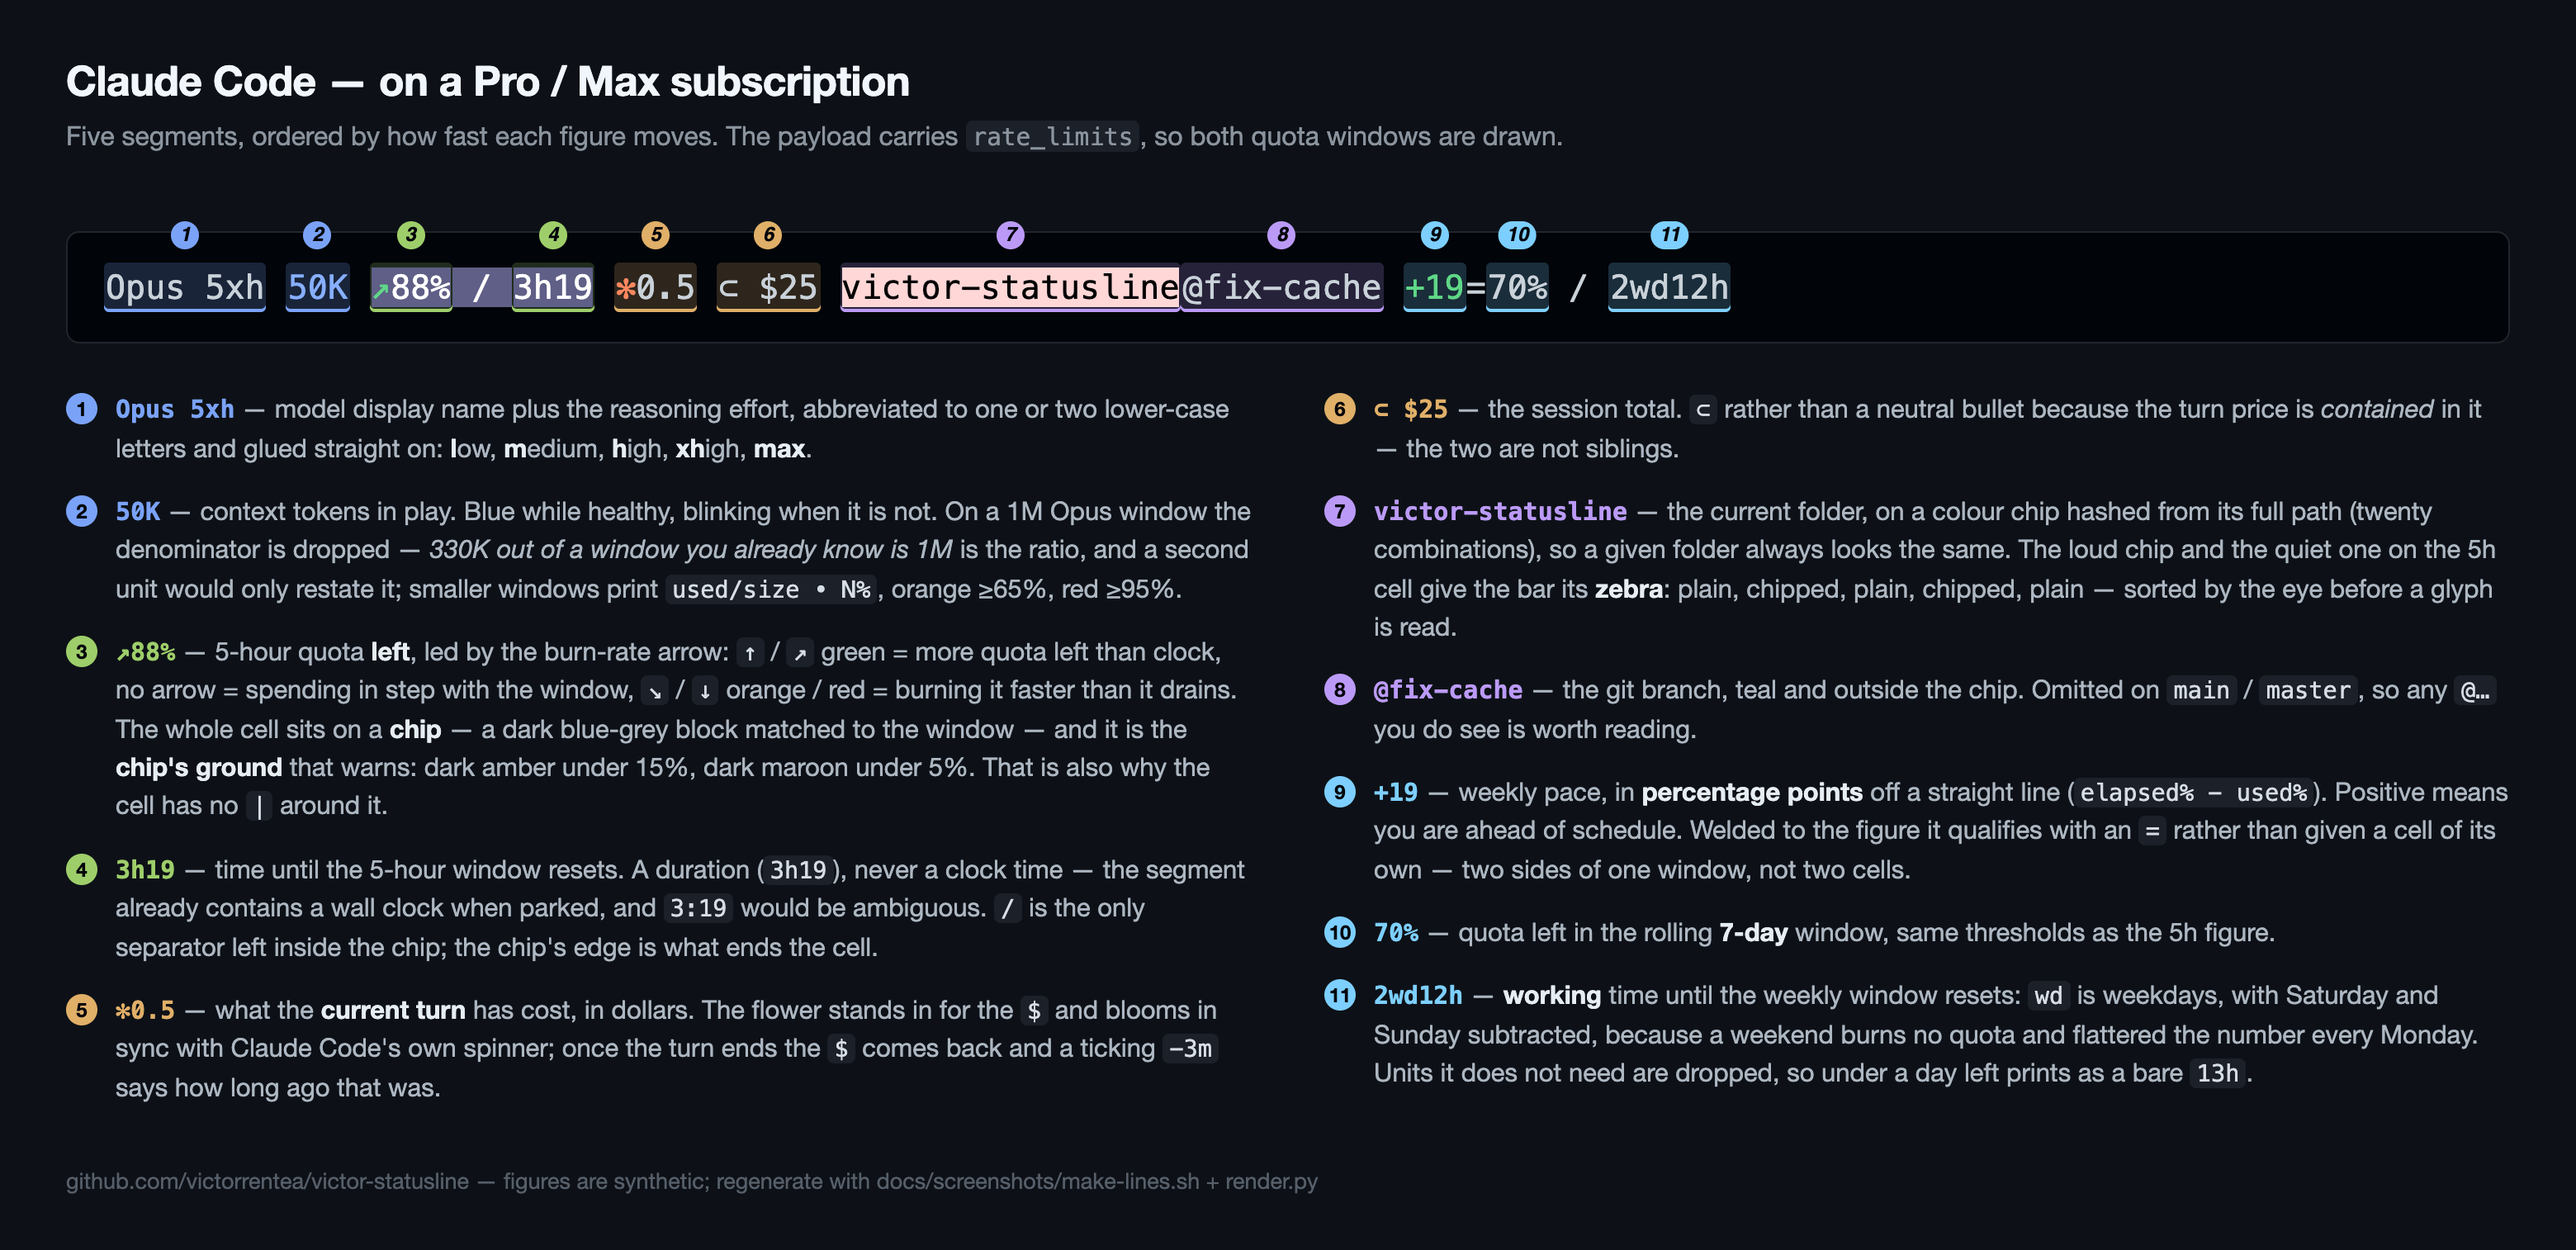
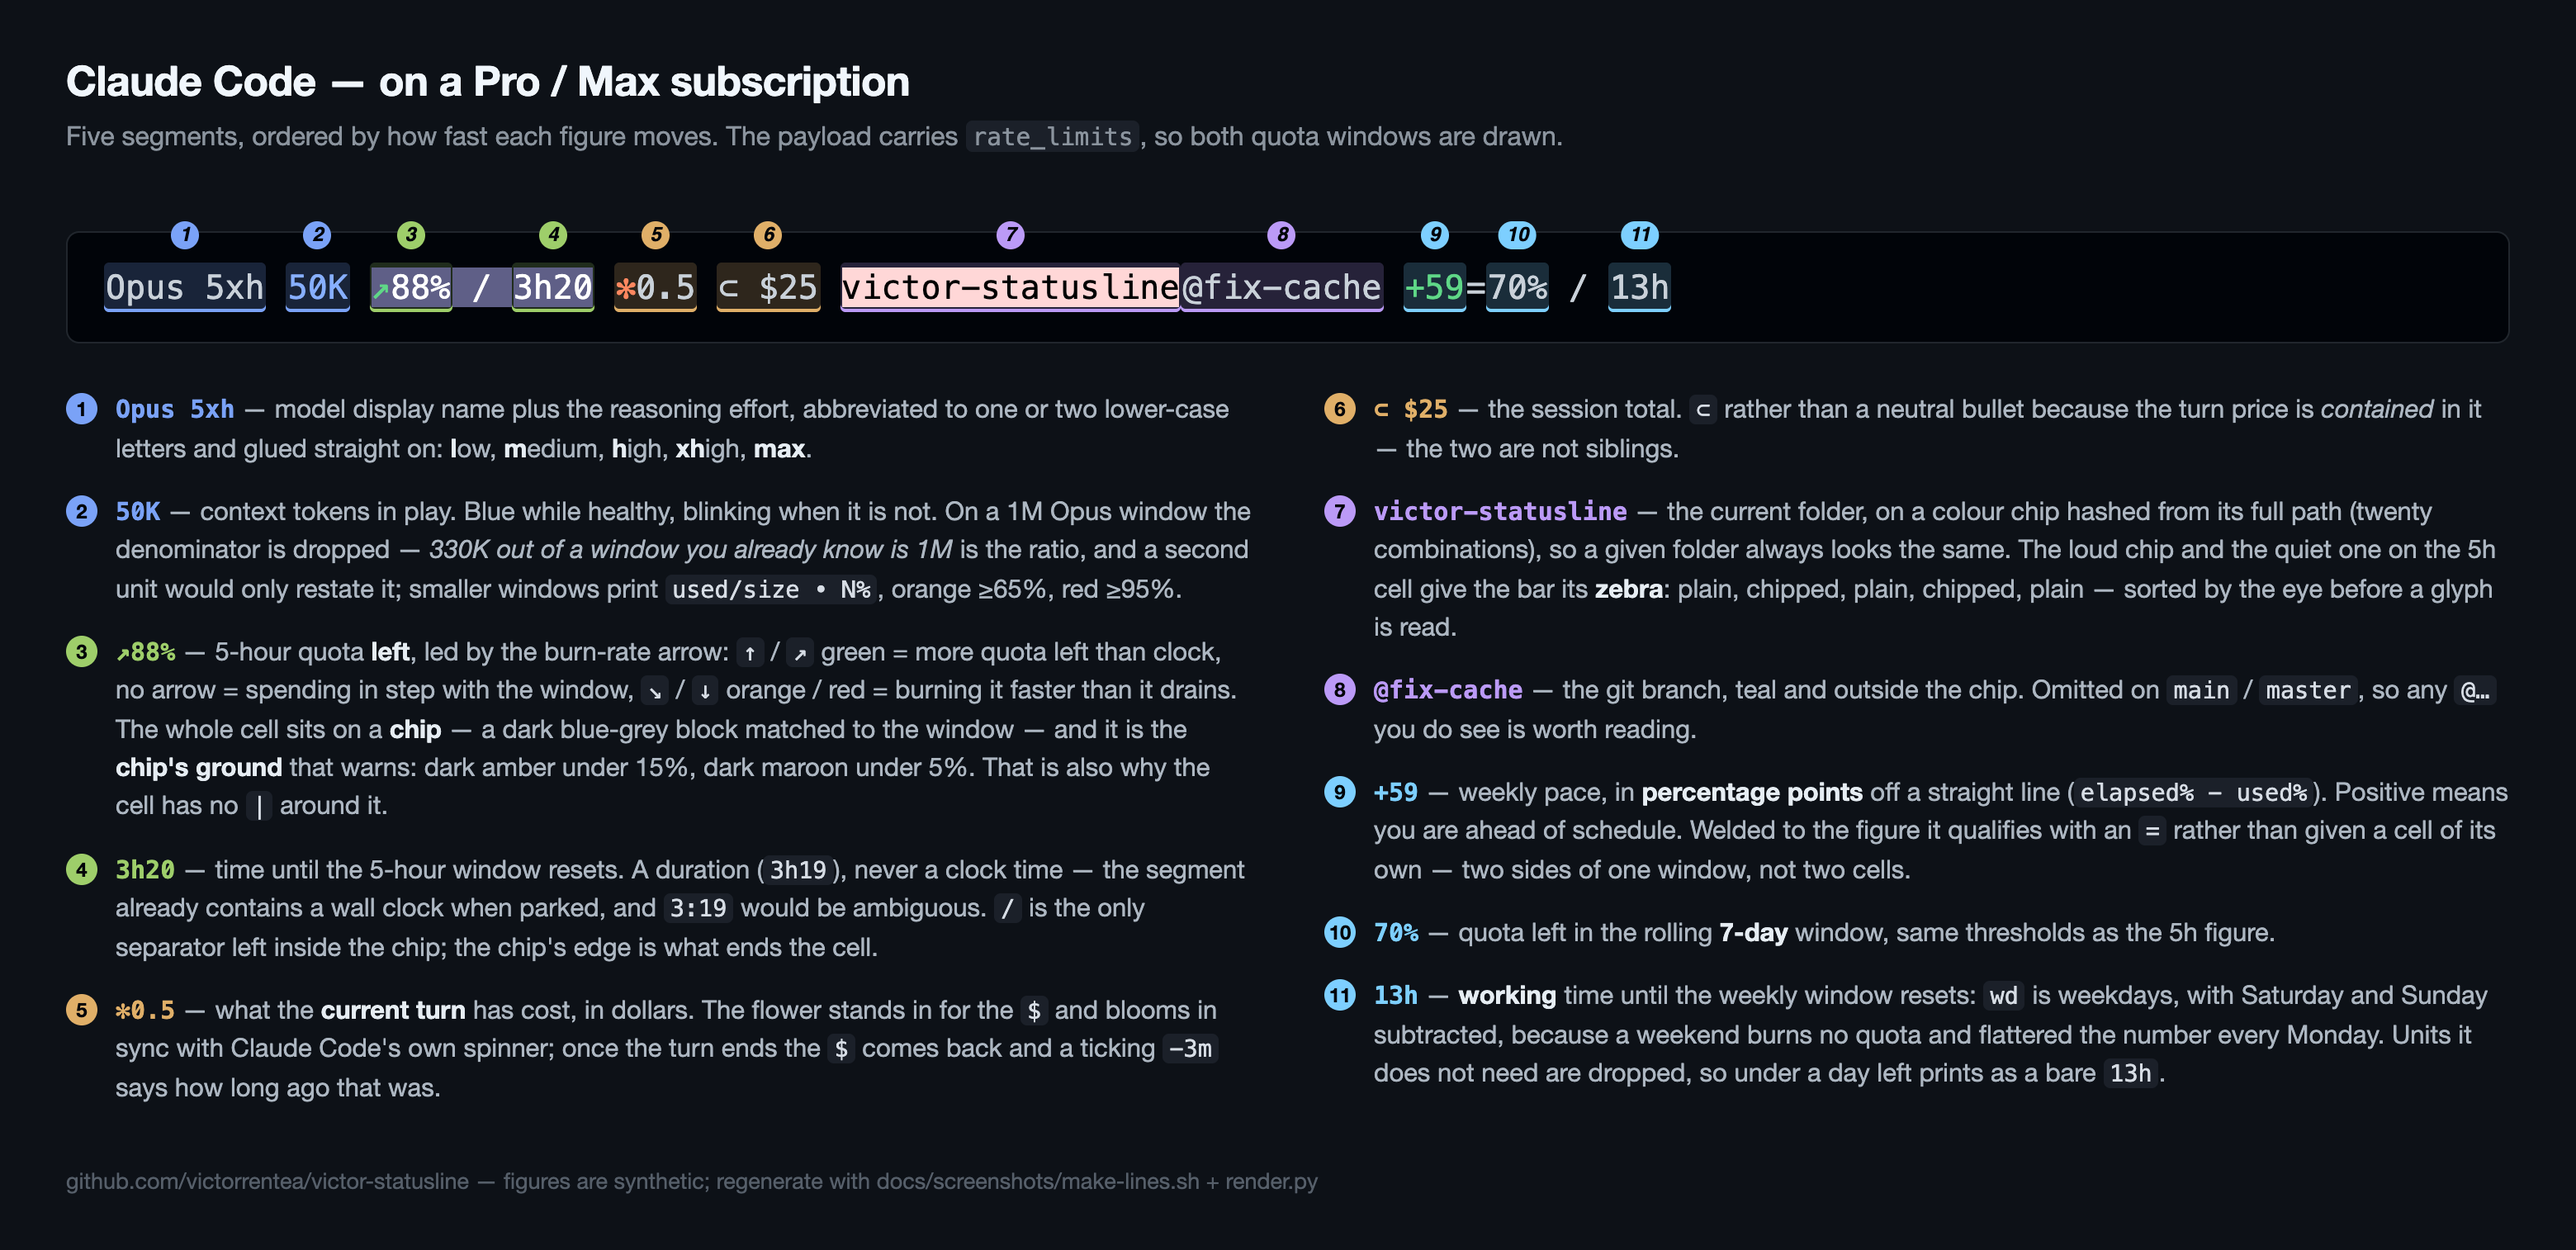
statusline: print the subagent chip's group count with × instead of *
+{O5h*2} read like a shell glob; × is what a multiplier looks like.
Script, embedded copy, tests, docs and screenshots move together.

Changed region(s): [[0.5285, 0.7761, 0.9638, 0.8692], [0.6218, 0.1552, 0.684, 0.2483]]

diff --git a/docs/screenshots/render.py b/docs/screenshots/render.py
@@ -201,13 +201,13 @@ SPECS = [
              "between a spawn and that agent's first completed response."),
             (r"\+\{[^}]*\}", "spend",
              "the fan-out, <b>grouped rather than listed</b>: each entry is "
-             "<code>&lt;model&gt;&lt;effort&gt;</code> with <code>*N</code> when a group "
+             "<code>&lt;model&gt;&lt;effort&gt;</code> with <code>×N</code> when a group "
              "has more than one, biggest group first. Here: two Opus 5 at high effort "
              "and one Sonnet 5 at medium. Haiku, which has no reasoning-effort setting "
              "at all, renders bare (<code>H4.5</code>) rather than inventing a letter. "
              "One line per agent would be a roster; the bar has room for the "
              "<i>shape</i> of the fan-out, which is the part you act on — "
-             "<code>+{F5.1h*21,O5h*3}</code> says “mostly Fable, three Opus stragglers” "
+             "<code>+{F5.1h×21,O5h×3}</code> says “mostly Fable, three Opus stragglers” "
              "in twelve columns. The chip disappears the moment the last agent is "
              "collected."),
         ],

diff --git a/claude/victor-claude-statusline.md b/claude/victor-claude-statusline.md
@@ -293,16 +293,16 @@ parameter expansion, not `sed`: `$ctx_render` is full of ESC and `&` bytes that
 
 ---
 
-## 1.2 Subagents in flight — `+{O5h*2,S5m}`
+## 1.2 Subagents in flight — `+{O5h×2,S5m}`
 
 Glued onto the model segment while subagents are running, and absent otherwise:
 
 ```
-Opus 5h 60K +{O5h*2,S5m} | ↓48% / 4h44 | $0.3 -2m ⊂ $1.1 | victor-statusline | -1=-1% / 0m
+Opus 5h 60K +{O5h×2,S5m} | ↓48% / 4h44 | $0.3 -2m ⊂ $1.1 | victor-statusline | -1=-1% / 0m
 ```
 
 Two Opus-5 agents at high effort plus one Sonnet-5 at medium. Each entry is
-`<model><effort>`, `*N` when a group has more than one, biggest group first.
+`<model><effort>`, `×N` when a group has more than one, biggest group first.
 
 **Why it exists.** Claude Code's own agent list under the bar names the agents
 and shows their progress, but never says which model any of them got — and that
@@ -314,7 +314,7 @@ A 24-way fan-out on Fable and a 24-way fan-out on Opus look identical while they
 run and differ by an order of magnitude on the bill.
 
 **Grouped, not listed.** One line per agent is a roster; the bar has room for
-the *shape* of the fan-out, which is what you actually act on. `+{F5.1h*21,O5h*3}`
+the *shape* of the fan-out, which is what you actually act on. `+{F5.1h×21,O5h×3}`
 says "the bulk of this is Fable, with three Opus stragglers" in twelve columns.
 
 **Where the data comes from.** Files Claude Code already writes, under
@@ -334,7 +334,7 @@ to *this* session's level, because that is what an agent inherits unless its own
 definition overrides it.
 
 A model with no reasoning-effort setting at all — Haiku — writes no `effort`
-field, and renders bare: `+{H4.5*2,S5h}` is two Haiku 4.5 agents and one
+field, and renders bare: `+{H4.5×2,S5h}` is two Haiku 4.5 agents and one
 Sonnet 5 at high. This was found by running the thing: requiring `effort`
 alongside `model` when reading an agent's transcript meant every Haiku agent
 failed to resolve, was never cached, and fell back to the alias — rendering as
@@ -3148,9 +3148,9 @@ fi
 # there to divide them, the usual pipe when there is no folder segment at all.
 [ -n "$week_seg" ] && out="$out${_loc_sep:- | }$week_seg"
 
-# --- Subagents in flight: "+{O5h*2,S5m}" glued onto the model segment -------
+# --- Subagents in flight: "+{O5h×2,S5m}" glued onto the model segment -------
 # WHAT IT SAYS: how many subagents are working right now, on which brain, at
-# which effort — "+{O5h*2,S5m}" is two Opus-5-high agents plus one Sonnet-5-medium.
+# which effort — "+{O5h×2,S5m}" is two Opus-5-high agents plus one Sonnet-5-medium.
 # Claude Code's own agent list under the bar names the agents but never the model
 # they got, and that is the fact which decides what a fan-out costs and how good
 # its answers will be: the same Task lands on Opus, Sonnet, Fable or Haiku
@@ -3438,7 +3438,7 @@ $_new"
           ord[j + 1] = k
         }
         s = ""
-        for (i = 1; i <= n; i++) s = s (s == "" ? "" : ",") ord[i] (c[ord[i]] > 1 ? "*" c[ord[i]] : "")
+        for (i = 1; i <= n; i++) s = s (s == "" ? "" : ",") ord[i] (c[ord[i]] > 1 ? "×" c[ord[i]] : "")
         printf "+{%s}", s
       }')
     [ -n "$sub_chip" ] && sub_render=" ${GREEN}${sub_chip}${RESET}"
